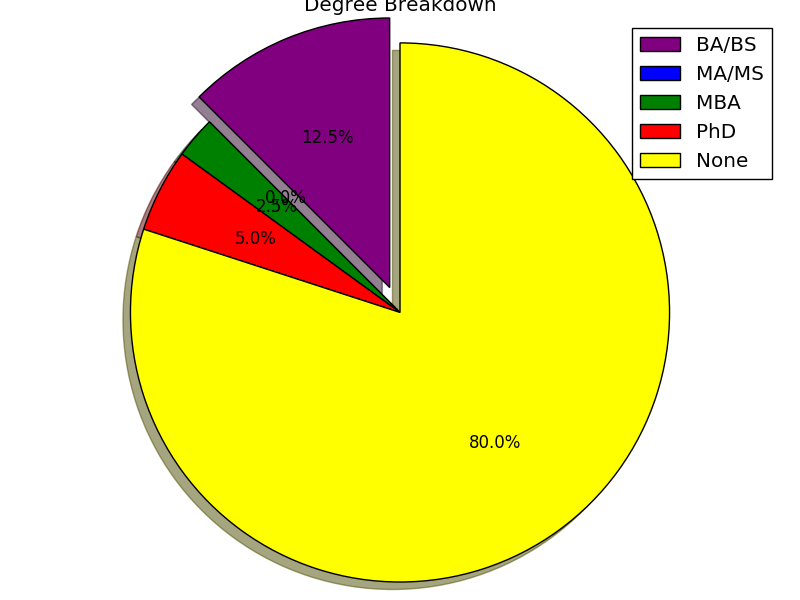
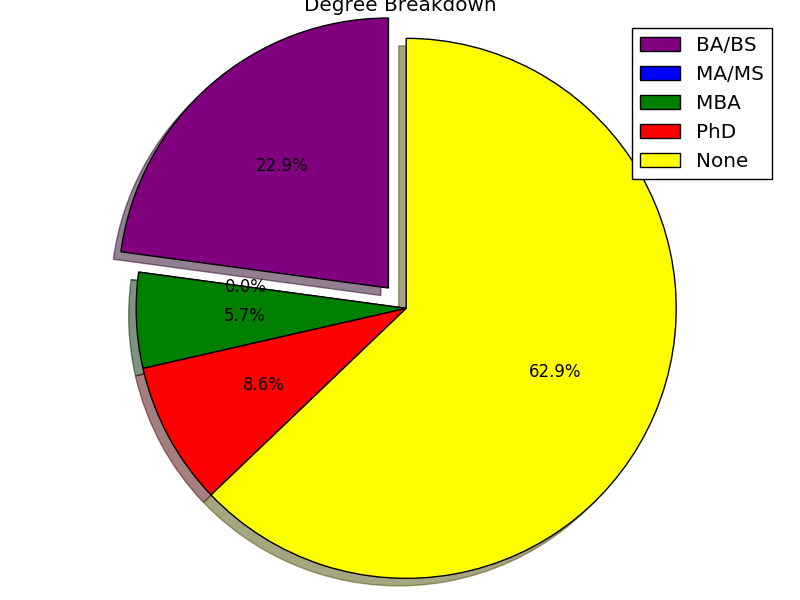
broke down chunks of code into functions, fine tuned the scraping a bit, updated SDD

diff --git a/gapjump.py b/gapjump.py
@@ -14,13 +14,14 @@ csv_file = sys.argv[1]
 # count degrees for pie chart
 count_degrees = []
 
+
 def find_gender(first_name):
     """Find gender based on first name scraping behindthename.com
        and genderize.io"""
     behindthename1 = "https://api.genderize.io/?name="
     page1 = urllib2.urlopen(behindthename1+first_name)
     soup1 = BeautifulSoup(page1, 'html.parser')
-    gender=json.loads(str(soup1))
+    gender = json.loads(str(soup1))
     behindthename2 = "http://www.behindthename.com/name/"
     page2 = urllib2.urlopen(behindthename2+first_name)
     soup2 = BeautifulSoup(page2, 'html.parser')
@@ -33,7 +34,7 @@ def find_gender(first_name):
         # if not found, scraping behindthename.com
         name_f = soup2.find(class_="fem")
         name_m = soup2.find(class_="masc")
-        error = soup2.find('p', attrs={'class' : 'error'})
+        error = soup2.find('p', attrs={'class': 'error'})
         if error:
             return "Unknown"
         elif name_f and name_m:
@@ -44,13 +45,109 @@ def find_gender(first_name):
             return "M"
 
 
+def find_degree_info(soup):
+    """Find degree info in parsed html text"""
+    degree = None
+    doc = ["PhD", "Assistant Professor"]
+    bs = ["B.A.", "BA", "B.S.", "BS", "Student", "Undergraduate"]
+    ms = ["M.S.", "Graduate Student", "MS", "Adjunct Instructor", "Associate Instructor"]
+    mba = ["MBA", "M.B.A"]
+    try:
+        #linkedin headline if any
+        desc2 = soup.find('div', attrs={'class': 'f', 'class': 'slp'}).get_text()
+        # print desc2
+        if any(d in desc2 for d in doc):
+            degree = "PhD"
+        elif any(a in desc2 for a in mba):
+            degree = "MBA"
+        elif any(m in desc2 for m in ms):
+            degree = "MS/MA"
+        elif any(b in desc2 for b in bs):
+            degree = "BA/BS"
+        else:
+            degree = "None"
+            if degree == "None":
+                # all search descriptions
+                desc = soup.findAll('span', attrs={'class': 'st'})
+                for des in desc:
+                    des = des.get_text()
+                    # print des
+                    if any(d in des for d in doc):
+                        degree = "PhD"
+                        break
+                    elif any(a in des for a in mba):
+                        degree = "MBA"
+                        break
+                    elif any(m in des for m in ms):
+                        degree = "MS/MA"
+                        break
+                    elif any(b in des for b in bs):
+                        degree = "BA/BS"
+                        break
+    except AttributeError:
+         # all search descriptions
+        desc = soup.findAll('span', attrs={'class': 'st'})
+        for des in desc:
+            des = des.get_text()
+            # print des
+            if any(d in des for d in doc):
+                degree = "PhD"
+                break
+            elif any(a in des for a in mba):
+                degree = "MBA"
+                break
+            elif any(m in des for m in ms):
+                degree = "MS/MA"
+                break
+            elif any(b in des for b in bs):
+                degree = "BA/BS"
+                break
+            else:
+                degree = "None"
+    return degree
+
+
+def find_university_info(soup):
+    """Find university info in parsed html text"""
+    # need to fine tune this regex
+    pattern = "([A-Z][^\s,.]+[.]?\s[(]?)*(College|University|University of|UC|Institute|Law School|School of|Academy)[^,\d]*(?=,|\d)"
+    university = None
+    try:
+        #linkedin headline if any
+        desc2 = soup.find('div', attrs={'class': 'f', 'class': 'slp'}).get_text()
+        match = re.search(pattern, desc2, flags=re.MULTILINE)
+        if match:
+            university = match.group()
+            print university
+        else:
+            # all search descriptions
+            desc = soup.findAll('span', attrs={'class': 'st'})
+            for des in desc:
+                des = des.get_text()
+                match = re.search(pattern, des, flags=re.MULTILINE)
+                if match:
+                    university = match.group()
+                    print university
+                    break
+    except AttributeError:
+        # all search descriptions
+        desc = soup.findAll('span', attrs={'class': 'st'})
+        for des in desc:
+            des = des.get_text()
+            match = re.search(pattern, des, flags=re.MULTILINE)
+            if match:
+                university = match.group()
+                print university
+                break
+    return university
+
+# open the csv file, parse it and start running through each line(name and email)
 with open(csv_file) as csvfile1:
     reader = csv.DictReader(csvfile1)
     for row in reader:
         first_name = row['Full Name'].split(' ')[0]
         if "(" in first_name:
-            first_name = re.search(r'\((.*?)\)',first_name).group(1)
-
+            first_name = re.search(r'\((.*?)\)', first_name).group(1)
         middle_name = row['Full Name'].split(' ')[1:-1]
         if middle_name:
             middle_name = row['Full Name'].split(' ')[1:-1][0]
@@ -58,106 +155,34 @@ with open(csv_file) as csvfile1:
             middle_name = ''
         last_name = row['Full Name'].split(' ')[-1]
         email = row['Email']
-    
-        
 
+        # start browsing the google
         br = mechanize.Browser()
         br.set_handle_robots(False)
         br.set_handle_equiv(False)
-        br.addheaders = [('User-agent', 'Chrome/55.0.2883.95')] 
-        br.open('http://www.google.com/')   
+        br.addheaders = [('User-agent', 'Chrome/55.0.2883.95')]
+        br.open('http://www.google.com/')
 
         # do the query
         br.select_form(name='f') 
         if email.endswith(".edu"):
-            print email
-            br.form['q'] = email # query
+            br.form['q'] = email  # query with email
         else:
-            br.form['q'] = first_name+' '+last_name # query
-
+            br.form['q'] = first_name + ' ' + last_name  # query with name
         data = br.submit()
         soup = BeautifulSoup(data.read(), 'html.parser', from_encoding='utf-8')
-        
-        #DEGREE
-
-        degree = None
-        doc =[ "PhD","Assistant Professor"]
-        bs = ["B.A.","BA","B.S.","BS","Student","Undergraduate"]
-        ms = ["M.S.","Graduate Student", "MS", "Adjunct Instructor","Associate Instructor"]
-        mba = ["MBA", "M.B.A"]
-        try:
-            #linkedin headline if any
-            desc2 = soup.find('div', attrs={'class': 'f', 'class' : 'slp'}).get_text()
-            # print desc2
-            if any(d in desc2 for d in doc):
-                degree = "PhD"
-            elif any(a in desc2 for a in mba):
-                degree = "MBA"
-            elif any(m in desc2 for m in ms):
-                degree = "MS/MA"
-            elif any(b in desc2 for b in bs):
-                degree = "BA/BS"
-            else:
-                degree = "None"
-        except AttributeError:
-        # all search descriptions 
-            desc = soup.findAll('span', attrs={'class': 'st'})
-            for des in desc:
-                des = des.get_text()
-                # print des
-                if any(d in des for d in doc):
-                    degree = "PhD"
-                    break
-                elif any(a in des for a in mba):
-                    degree = "MBA"
-                    break
-                elif any(m in des for m in ms):
-                    degree = "MS/MA"
-                    break
-                elif any(b in des for b in bs):
-                    degree = "BA/BS"
-                    break
-                else:
-                    degree="None"
-        #UNIVERSITY
-        pattern = "([A-Z][^\s,.]+[.]?\s[(]?)*(College|University|Institute|Law School|School of|Academy)[^,\d]*(?=,|\d)"
-        university = None
-        try:
-            #linkedin headline if any
-            desc2 = soup.find('div', attrs={'class': 'f', 'class' : 'slp'}).get_text()
-            match = re.search(pattern, desc2, flags=re.MULTILINE)
-           
-            if match:
-                university = match.group()
-                print university
-
-            
-        except AttributeError:
-        # all search descriptions 
-            desc = soup.findAll('span', attrs={'class': 'st'})
-            for des in desc:
-                des = des.get_text()
-                # print des
-                match = re.search(pattern, des, flags=re.MULTILINE)
-                
-                if match:
-                    university = match.group()
-                    print university
-                    break
+        # DEGREE
+        degree = find_degree_info(soup)
         count_degrees.append(degree)
-        # gender = find_gender(first_name)     
-        print first_name, degree, university
+        # UNIVERSITY
+        university = find_university_info(soup)
+        # GENDER
+        gender = find_gender(first_name)
 
+        print first_name, degree, university
         # Add to database
         profiles_db.add_to_db(first_name, last_name, degree, university)
-            
-# close the csv file
+# Close the csv file
 csvfile1.close()
-# generate pie chart upon completion
+# Generate pie chart upon completion
 degree_pie_chart.create_pie_chart(count_degrees)
-
-
-
-
-
-

diff --git a/SDD.md b/SDD.md
@@ -20,9 +20,11 @@ among the individuals listed in the csv file.
 ## Table of Contents📖
 
 * [Scraping](#scraping)
+* [Privacy](#privacy)
 * [Database](#database)
 * [Pie Chart](#pie chart)
 * [Requirements](#requirements)
+* [Testing](#testing)
 
 ## <a name="scraping"></a>Scraping
 
@@ -53,6 +55,13 @@ if thats against LinkedIn's terms of use.
 
 The goal in further pursuing this would be to arrive at better results: either fine tuning or finding other ways of scraping. So far reasearch on other scraping methods of this particular data
 has proved limiting.
+
+Also, need to find tune the regex pattern to be more precise in finding University/College name.
+
+## <a name="privacy"></a>Privacy
+
+I would like to research and find a way to enrcypt data before it is saved in the database so
+that user is never exposed to a raw variable data.
 
 ## <a name="database"></a>Database
 
@@ -86,4 +95,9 @@ I am running this script in a vm and in virtual environment. All dependencies ar
 requirements.txt for the virtual  environment. I currently have postgres installed only on my vm, and vagrant db created. 
 
 I would continue working with these two environments.
+
+## <a name="testing"></a>Testing
+
+I have run incomplete tests which are not included here. Once I have better coverage I'll include
+them.
 
